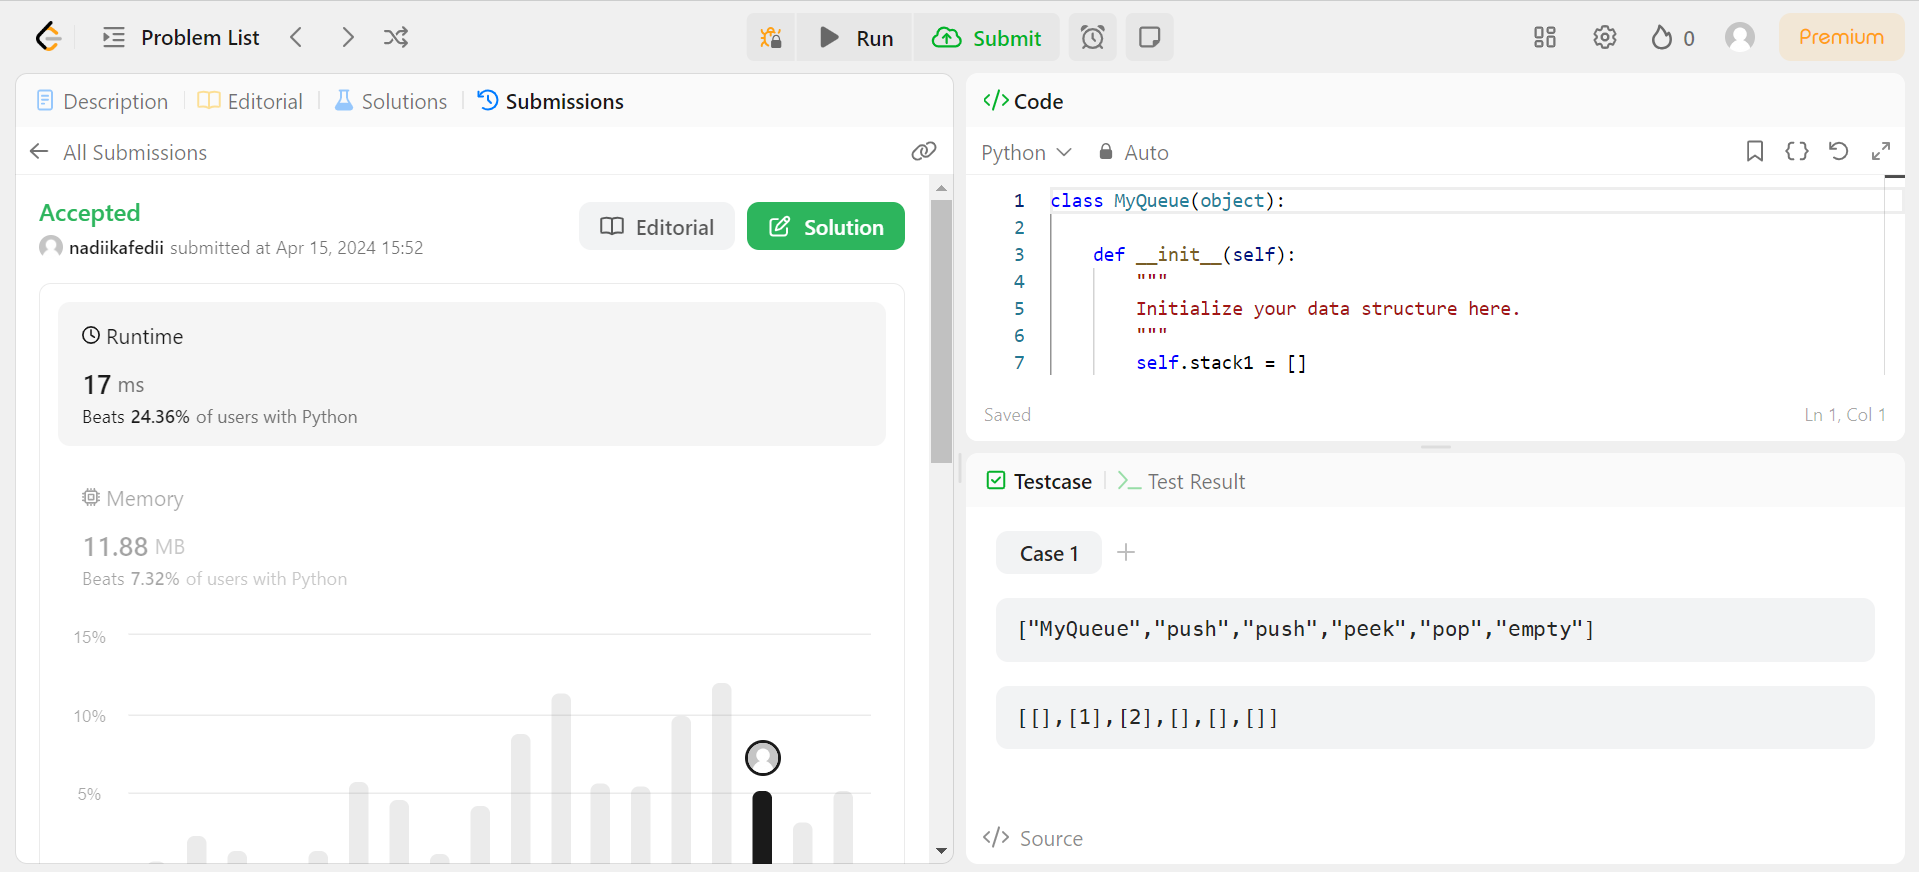
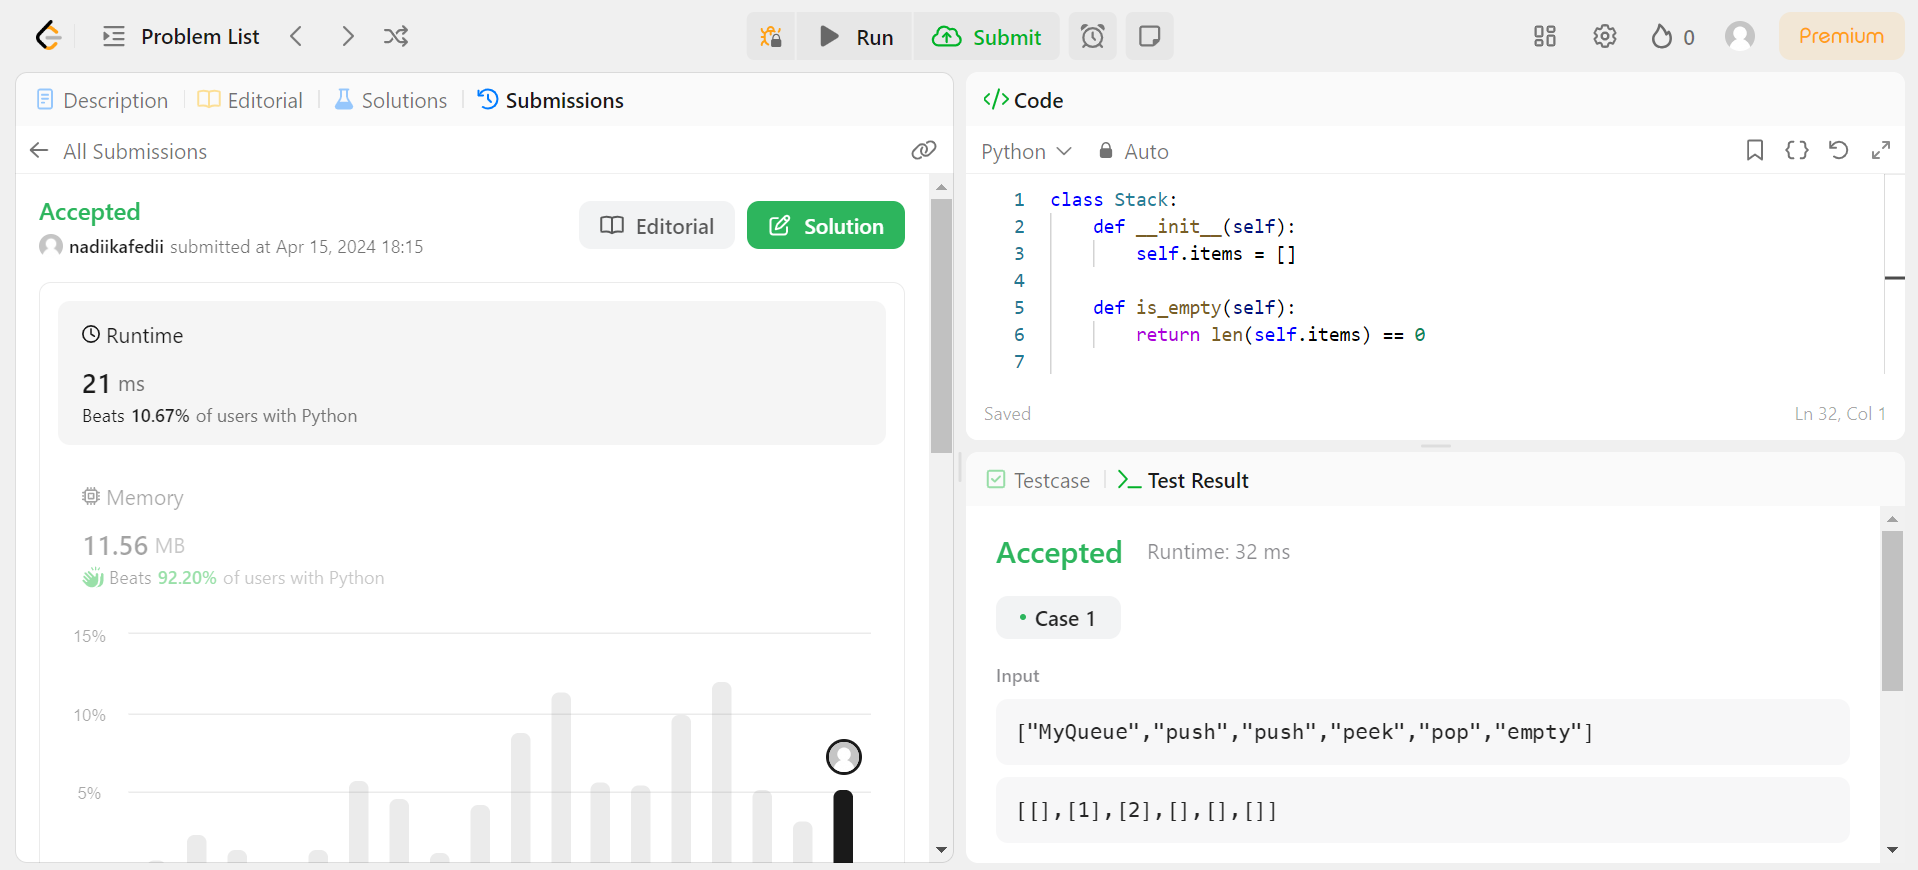
added its own class Stack

diff --git a/Implement Queue/task.py b/Implement Queue/task.py
@@ -1,45 +1,49 @@
-class MyQueue(object):
-
+class Stack:
     def __init__(self):
-        """
-        Initialize your data structure here.
-        """
-        self.stack1 = []
-        self.stack2 = []
+        self.items = []
 
-    def push(self, x):
-        """
-        Push element x to the back of queue.
-        :type x: int
-        :rtype: None
-        """
-        self.stack1.append(x)
+    def is_empty(self):
+        return len(self.items) == 0
+
+    def push(self, item):
+        self.items.append(item)
 
     def pop(self):
-        """
-        Removes the element from in front of queue and returns that element.
-        :rtype: int
-        """
-        if not self.stack2:
-            while self.stack1:
-                self.stack2.append(self.stack1.pop())
+        if self.is_empty():
+            raise IndexError("Trying to pop from an empty stack")
+        return self.items.pop()
+
+    def peek(self):
+        if self.is_empty():
+            raise IndexError("Trying to peek into an empty stack")
+        return self.items[-1]
+
+    def size(self):
+        return len(self.items)
+
+
+class MyQueue:
+    def __init__(self):
+        self.stack1 = Stack()
+        self.stack2 = Stack()
+
+    def push(self, x):
+        self.stack1.push(x)
+
+    def pop(self):
+        if self.stack2.is_empty():
+            while not self.stack1.is_empty():
+                self.stack2.push(self.stack1.pop())
         return self.stack2.pop()
 
     def peek(self):
-        """
-        Get the front element.
-        :rtype: int
-        """
-        if self.stack2:
-            return self.stack2[-1]
-        return self.stack1[0]
+        if self.stack2.is_empty():
+            while not self.stack1.is_empty():
+                self.stack2.push(self.stack1.pop())
+        return self.stack2.peek()
 
     def empty(self):
-        """
-        Returns whether the queue is empty.
-        :rtype: bool
-        """
-        return not self.stack1 and not self.stack2
+        return self.stack1.is_empty() and self.stack2.is_empty()
 
 
 # Your MyQueue object will be instantiated and called as such:

diff --git a/Maximum Frequency Stack/task.py b/Maximum Frequency Stack/task.py
@@ -1,0 +1,24 @@
+class FreqStack(object):
+
+    def __init__(self):
+        self.stack = []
+
+    def push(self, val):
+        """
+        :type val: int
+        :rtype: None
+        """
+        self.stack.append(val)
+        
+
+    def pop(self):
+        """
+        :rtype: int
+        """
+        
+
+
+# Your FreqStack object will be instantiated and called as such:
+# obj = FreqStack()
+# obj.push(val)
+# param_2 = obj.pop()
